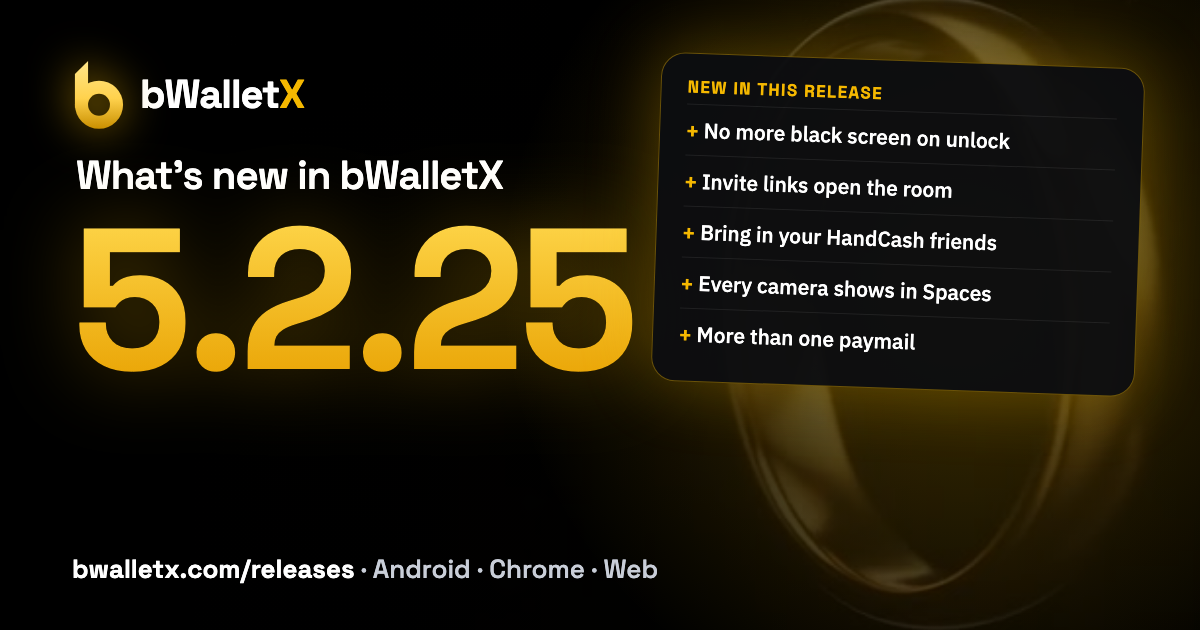
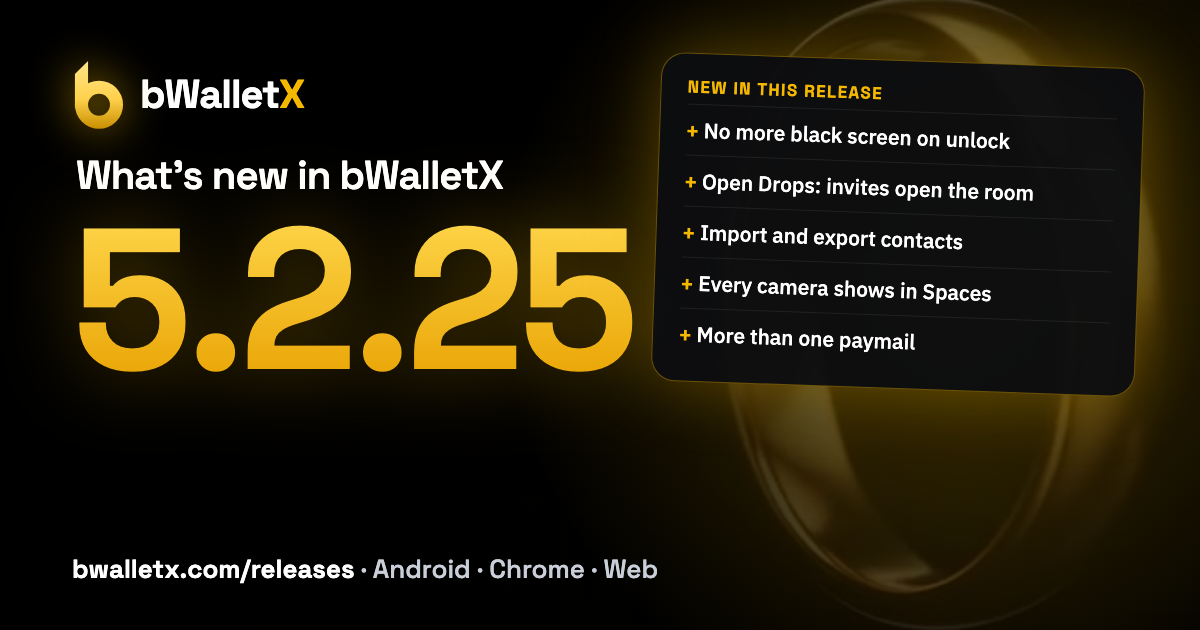
Invites: Open Drops is the 5.2.25 build (Live, first run pending); Named Invites back to Coming (pre-signed payments). Releases 5.2.25: drop HandCash friends (5.2.26), new share image

Changed region(s): [[0.5858, 0.2714, 0.8633, 0.3317], [0.5858, 0.3619, 0.8325, 0.4222]]

diff --git a/releases.html b/releases.html
@@ -59,7 +59,7 @@
       <p class="lede">Every bWalletX release and what it added, newest first.</p>
       <p class="small">Each release ships to the Android APK, the Chrome extension and the web wallet. Android also goes to Google Play internal testing. The App Store build is not yet submitted.</p>
       <div class="row"><a class="btn btn-store" href="/download">Download bWalletX</a></div>
-<article class="rel" id="v5.2.25"><h2><span class="gold">5.2.25</span> <small>2026-10-16</small></h2><ul><li data-og="No more black screen on unlock">Fixed a black screen after unlock: if something goes wrong you now see a safety screen instead of a blank page.</li><li data-og="Invite links open the room">Open Drops: invite links carry a room token, so the person you invite lands straight in the room.</li><li data-og="Bring in your HandCash friends">Address book: import and export your contacts, and bring in your HandCash friends.</li><li data-og="Every camera shows in Spaces">Spaces: every camera and screen share now shows on stage.</li><li data-og="More than one paymail">Multiple paymails: add extra names in Settings &rsaquo; Identity.</li><li>Red unread dots on Chat, Feed and bMail; encrypted backups are named for the account and download properly in Chrome; Android direct downloads get an in-app update button; and the BSV price no longer fails under load.</li></ul></article>
+<article class="rel" id="v5.2.25"><h2><span class="gold">5.2.25</span> <small>2026-10-16</small></h2><ul><li data-og="No more black screen on unlock">Fixed a black screen after unlock: if something goes wrong you now see a safety screen instead of a blank page.</li><li data-og="Open Drops: invites open the room">Open Drops (bWalletX): each invite link is made for an @handle and carries a room token, so the person you invite lands straight in the room.</li><li data-og="Import and export contacts">Address book: import and export your contacts.</li><li data-og="Every camera shows in Spaces">Spaces: every camera and screen share now shows on stage.</li><li data-og="More than one paymail">Multiple paymails: add extra names in Settings &rsaquo; Identity.</li><li>Red unread dots on Chat, Feed and bMail; encrypted backups are named for the account and download properly in Chrome; Android direct downloads get an in-app update button; and the BSV price no longer fails under load.</li></ul></article>
 <article class="rel" id="v5.2.24"><h2><span class="gold">5.2.24</span> <small>2026-10-15</small></h2><ul><li data-og="Mono, Duo and Tri themes">Themes: new Mono, Duo and Tri looks, and your wallet cards now follow the theme you pick.</li><li data-og="All cards: Addresses and bCal">All cards: a new icon opens a browser of every card, including Addresses and bCal, your calendar.</li><li data-og="Look-alike token warnings">Exchange: each token shows its ID, the wallet warns you about look-alikes, rows swipe for quick actions, and Movies has its own section.</li><li data-og="Payments arrive in 15 seconds">Payments you receive show up within about 15 seconds, and chats update live.</li><li data-og="Smoother Android set-up">Android set-up: no static on the first screen, a password you can copy, encrypted backups that save properly, and an &ldquo;I already have a backup&rdquo; button.</li><li>Names splits into Paymail and OpNS, paymail names show a display name (never &ldquo;Anonymous&rdquo;), contact cards carry a role and bio, and card balances show in your currency or BSV.</li></ul></article>
 <article class="rel" id="v5.2.23"><h2><span class="gold">5.2.23</span> <small>2026-10-15</small></h2><ul><li data-og="Recover a payment by its ID">Recover a payment by its transaction ID in Settings &rsaquo; Troubleshooting, with live progress and plain-English results, and Migrate Legacy Assets now opens in the web wallet and phone apps.</li><li data-og="Start small, then move more">Beta safety: before you receive, sweep, restore or buy a large amount, the wallet suggests a small test first.</li><li data-og="Swipe your card for every balance">Swipe the wallet card for Tokens, bTickets, bShares, bCredits, MNEE, PNEEs and Top up, each with its real balance; press and hold for All cards.</li><li data-og="bCredits: top up with BSV">bCredits: top up with BSV at 1p per credit, up to &pound;20.</li><li data-og="Shuffle and Surprise me themes">Themes: ten packs, a colour mixer with Shuffle, Surprise me and Sharp, Soft or Round corners.</li><li>Token rows swipe to Pin, Lock or Archive with buttons that match the row, the ID KEY on the card back is larger, and pairing no longer reconnects twice.</li></ul></article>
 <article class="rel" id="v5.2.22"><h2><span class="gold">5.2.22</span> <small>2026-10-14</small></h2><ul><li data-og="Themes for the whole app">Themes: pick Classic, Executive, Cyberpunk, Pastel or another colour for the whole app, and dress your card with Patterns, Art and Collections.</li><li data-og="Every bApp in the Feed row">Feed: one scrolling row holds every bApp with a fresh icon set, pin the ones you like, and Following and For you sit together under one Home chip.</li><li data-og="bMovies, bMusic and bNews video">Watch in the Feed: a full-screen bMovies reel, a bMusic reel with a featured album, and bNews video.</li><li data-og="Say something with a tip">Add a message when you tip a post: a reply under it, a bMail, or a private note.</li><li data-og="Tap a name, see their posts">Tap an author in the Feed to see their own posts under their bAvatar.</li><li>Exchange charts never go blank (a flat line until the first trade, with sparklines on Markets), and the swap card shows the BTC, ETH and USDT logos at once.</li></ul></article>

diff --git a/invite.html b/invite.html
@@ -87,8 +87,8 @@
 <li><span class="tag live">&check; Live</span><span><b>Address book import</b> (CSV, contact cards, JSON, pasted lists) and export to CSV: in the app, shipping in 5.2.25.</span></li>
 <li><span class="tag live">&check; Live</span><span><b>Sign in with HandCash</b> on bchatx.com: switched on; first real sign-in being tested.</span></li>
 <li><span class="tag live">&check; Live</span><span><b>HandCash friends into your address book:</b> the server side is live; the wallet button is coming.</span></li>
-<li><span class="tag soon">Coming</span><span><b>Open Drops:</b> a link holding a token that the first person to open it claims. Planned.</span></li>
-<li><span class="tag live">Live</span><span><b>Named Invites:</b> a room host invites X accounts by @handle; each link holds the room token and only that X account can claim it (5.2.25, bWalletX only).</span></li>
+<li><span class="tag live">Live</span><span><b>Open Drops:</b> live in bWalletX 5.2.25 (first run pending). Each link is made for an @handle and pre-funded with the room token; whoever opens it first gets the token, and room entry is tied to that X account.</span></li>
+<li><span class="tag soon">Coming</span><span><b>Named Invites:</b> the token delivered automatically to the X account you name. Planned; depends on pre-signed payments.</span></li>
 <li><span class="tag soon">Coming</span><span><b>Import the people you follow on X:</b> planned.</span></li>
 <li><span class="tag soon">Coming</span><span><b>Contacts auto-match to paymails</b> as friends join: planned.</span></li>
       </ul>

diff --git a/blog/057-handcash-and-invites.html b/blog/057-handcash-and-invites.html
@@ -120,8 +120,8 @@
           <li>&check; Address book import (CSV, contact cards, JSON, pasted lists) and export to CSV: in the app, shipping in 5.2.25</li>
           <li>&check; Sign in with HandCash on bchatx.com: switched on; first real sign-in being tested</li>
           <li>&check; HandCash friends into your address book: the server side is live; the wallet button is coming</li>
-          <li>&#9723; Open Drops: a link holding a token that the first person to open it claims. Being built</li>
-          <li>&#9723; Named Invites: an invite only one X account can claim, with the token sent automatically. Planned</li>
+          <li>&check; Open Drops: live in bWalletX 5.2.25 (first run pending). Each link is made for an @handle; whoever opens it first gets the token, and room entry is tied to that X account</li>
+          <li>&#9723; Named Invites: the token sent automatically to the X account you name. Planned; depends on pre-signed payments</li>
           <li>&#9723; Import the people you follow on X: planned</li>
           <li>&#9723; Contacts auto-match to paymails as friends join: planned</li>
         </ul>

diff --git a/docs/ROADMAP.md b/docs/ROADMAP.md
@@ -66,7 +66,7 @@ When an item changes, update its page and this file in the same PR.
 ## SHIPPED IN 5.2.25 (16 Oct; pages flipped to Live)
 
 - More than one handle per account (yours-mobile#91, bit-sign #272). handles.html
-- Named Invites: room host invites X @handles with pre-funded one-time keys (yours-mobile#106, bit-sign #282; bWalletX only). invite.html. *Note:* the 5.2.25 release note calls this "Open Drops"; first-opener Open Drops are not built.
+- Open Drops (option B, owner 15 Oct): host pre-funds a one-time key per @handle link, token is bearer, room entry bound to the invited X account (yours-mobile#106, bit-sign #282; bWalletX only). First end-to-end run pending. invite.html, blog 057.
 - Android in-app updater, address book import/export, every screen share/camera on stage, backup naming, tab badges, price fix.
 - Space banner on stage tiles (SpeakerGrid `bannerUrl`, already in 5.2.24). gigs.html
 - bMail nav label "(coming)" removed (price-to-reach is live).
@@ -95,7 +95,7 @@ When an item changes, update its page and this file in the same PR.
 6. **bShares for any company, and partnership shares.** yours-mobile#46/#47, bit-sign #242/#244 (migrations not run). Missing: review, migrations, a real-key test of the partner lock, owner sign-off. bshares.html, partnership-shares.html, blog 055, blog 056. *To go live:* merge #46→#47 and #242→#244, run the migrations, test the partner lock end to end with recovery from seed, then release.
 7. **PNEE pots.** Types and UI exist, but the wallet says "PNEE pots aren't available yet" (`pots/pots.ts`). Missing: pricing and paying PNEE amounts from a pot. pots.html, subscriptions.html
 8. **bApp five-button bar.** Desktop prototype, bMovies only (`wide/bapps.ts`). Missing: the phone shell, more bApps and greyed slots. bapps.html, bapps/bmovies.html
-9. **Invites: Open Drops** (Named Invites shipped in 5.2.25). *Open Drops*: a link holding a token, first to open claims it (being built: yours-mobile#106, pre-funded link keys). *Named Invites*: only one named X account can claim, token sent automatically (planned; depends on the pre-signed payments design under way; no PR yet). invite.html, blog 057.
+9. **Named Invites** (Open Drops shipped in 5.2.25): automatic delivery via pre-signed 2-of-2 slots, docs/PRESIGNED-PAYMENTS.md; not built, mainnet proofs pending. *Open Drops*: a link holding a token, first to open claims it (being built: yours-mobile#106, pre-funded link keys). *Named Invites*: only one named X account can claim, token sent automatically (planned; depends on the pre-signed payments design under way; no PR yet). invite.html, blog 057.
 10. **bPics market.** yours-mobile#38, bit-sign #233 (moderation pipeline).
 11. **Play your music video into a Space.** Possible today by sharing a tab with Broadcast. Missing: a built-in synced player and repeat. gigs.html
 12. **Investor journey.** bShares placement (restricted) exists. Missing: one-tap pay from the wallet and a single flow. identity.html
